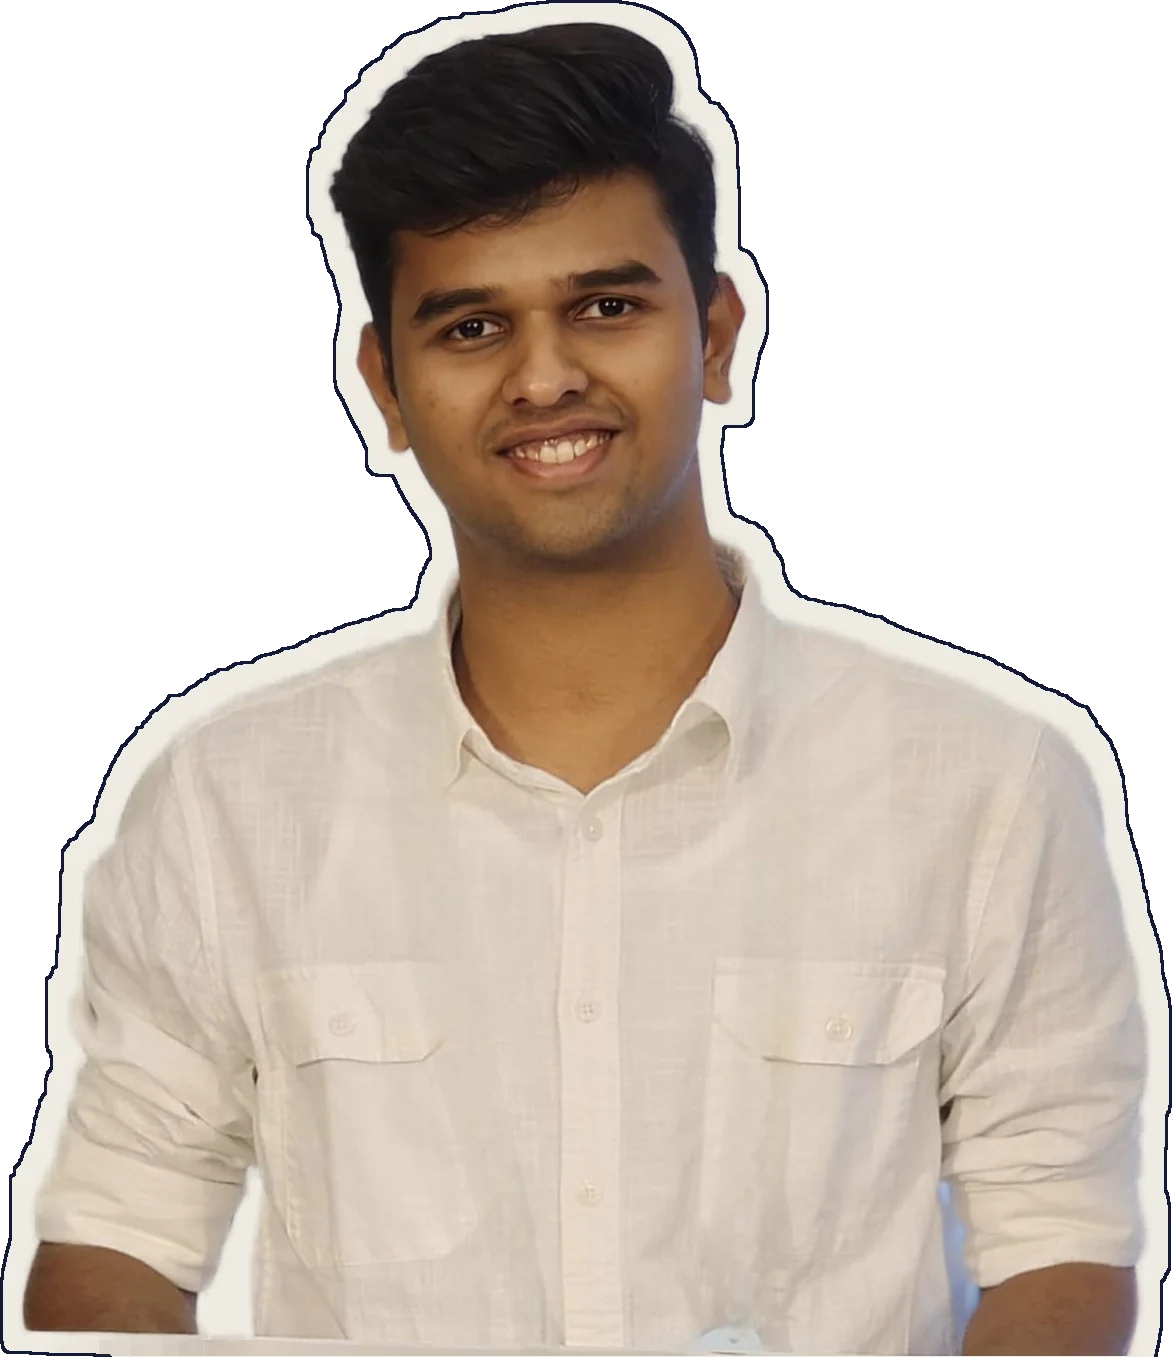
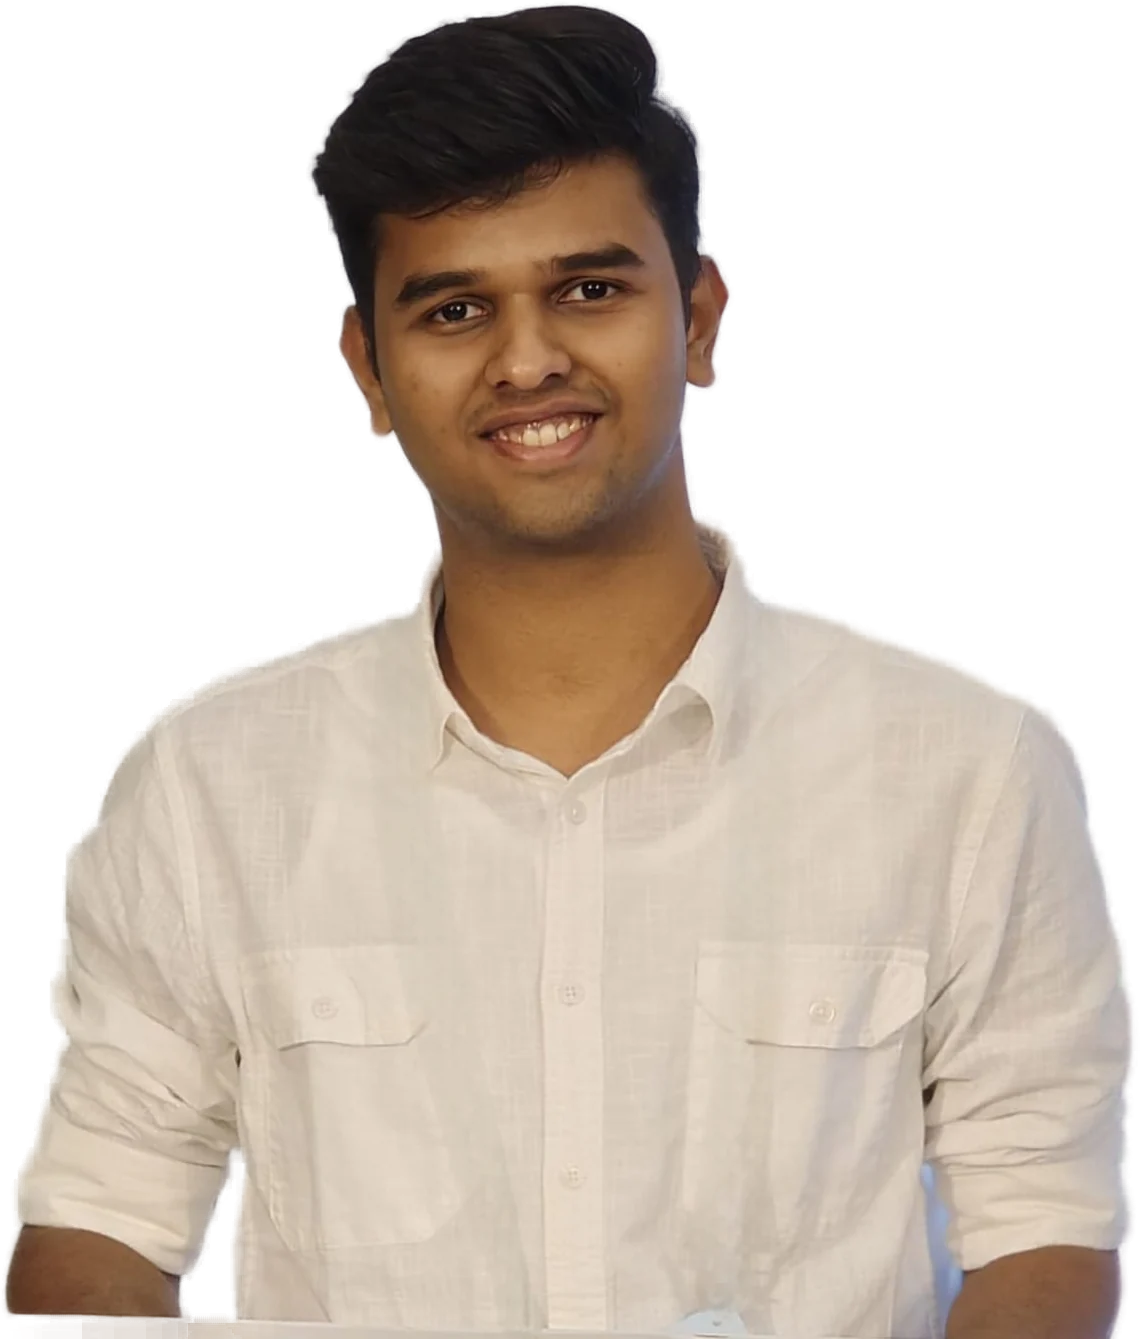
hero: plain cut-out photo instead of sticker border, no tilt

diff --git a/src/app/globals.css b/src/app/globals.css
@@ -83,9 +83,9 @@ html.has-thread, html.has-thread *{cursor:none !important}
 .hero-thread path{fill:none; stroke:var(--thread); stroke-width:2.5; stroke-linecap:round}
 .hero-thread .needle{stroke:var(--chalk); stroke-width:2.6}
 .hero-thread .eye{fill:none; stroke:var(--ink); stroke-width:1}
-.sticker{position:absolute; right:6vw; bottom:0; height:72svh; aspect-ratio:1172/1357; z-index:1; transform:rotate(-3deg); transform-origin:50% 100%}
+.sticker{position:absolute; right:6vw; bottom:0; height:72svh; aspect-ratio:1140/1339; z-index:1}
 .sticker-img{position:absolute; inset:0; width:100%; height:100%; object-fit:contain; object-position:bottom; display:block;
-  filter:drop-shadow(0 22px 30px rgba(0,0,0,.5)); clip-path:inset(0 0 100% 0)}
+  filter:drop-shadow(0 26px 34px rgba(0,0,0,.45)); clip-path:inset(0 0 100% 0)}
 .seam{position:absolute; left:18%; right:18%; top:var(--edge,0%); height:2px; background:var(--thread); opacity:var(--edge-o,0); box-shadow:0 0 18px var(--thread); z-index:3}
 .hn{position:absolute; z-index:4; font-family:var(--hand); font-weight:600; font-size:clamp(17px,1.5vw,24px); line-height:1.15; color:var(--chalk); opacity:0; white-space:nowrap; pointer-events:none}
 .hn svg{position:absolute; width:40px; height:40px; fill:none; stroke:var(--chalk); stroke-width:1.8; stroke-linecap:round; stroke-linejoin:round}

diff --git a/src/components/Hero.tsx b/src/components/Hero.tsx
@@ -12,8 +12,8 @@ const LETTERS: { ch: string; r: number; c: string; tc: string; thread?: boolean 
   { ch: "h", r: 2, c: "#2E4078", tc: "#EFEBE3" },
 ];
 
-// Sticker image is 1172×1357; the thread lands at this point in its pixel space (near shoulder).
-export const STICKER = { w: 1172, h: 1357, land: { x: 230, y: 700 } };
+// Cut-out image is 1140×1339; the thread lands at this point in its pixel space (near shoulder).
+export const STICKER = { w: 1140, h: 1339, land: { x: 178, y: 668 } };
 
 export default function Hero() {
   return (
@@ -42,7 +42,7 @@ export default function Hero() {
         </g>
       </svg>
 
-      {/* sticker: cut-out photo with a chalk die-cut border */}
+      {/* cut-out photo, no background */}
       <div className="sticker" id="sticker">
         <Image src="/me-sticker.webp" alt="Priyansh" width={STICKER.w} height={STICKER.h} priority className="sticker-img" id="sticker-img" />
         <div className="seam" id="sticker-seam" />
